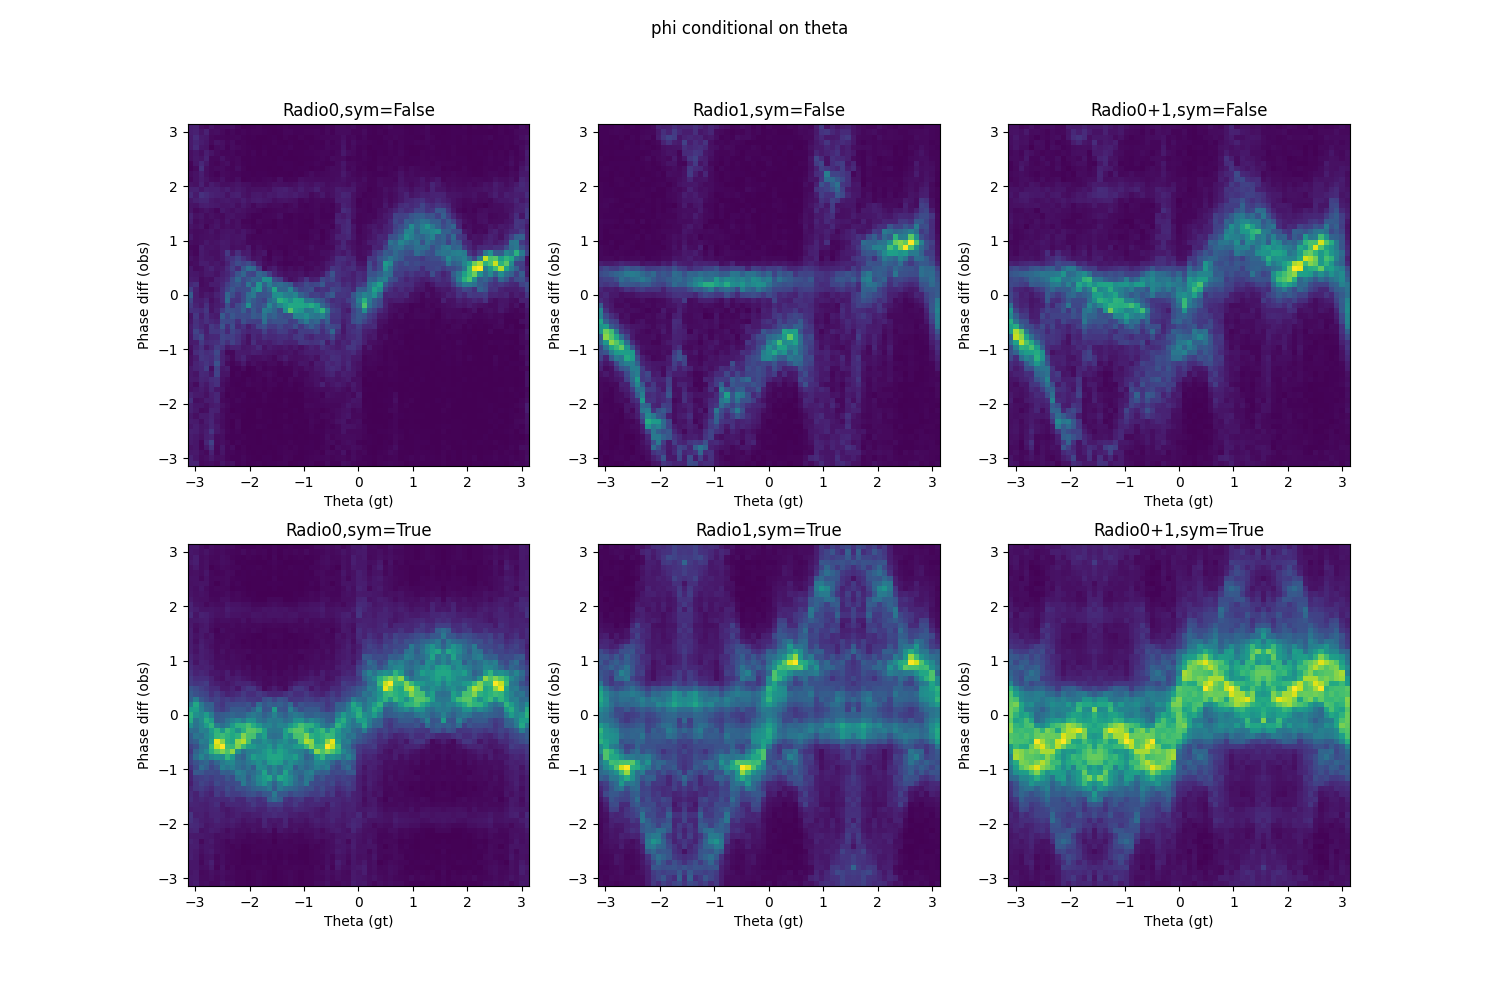
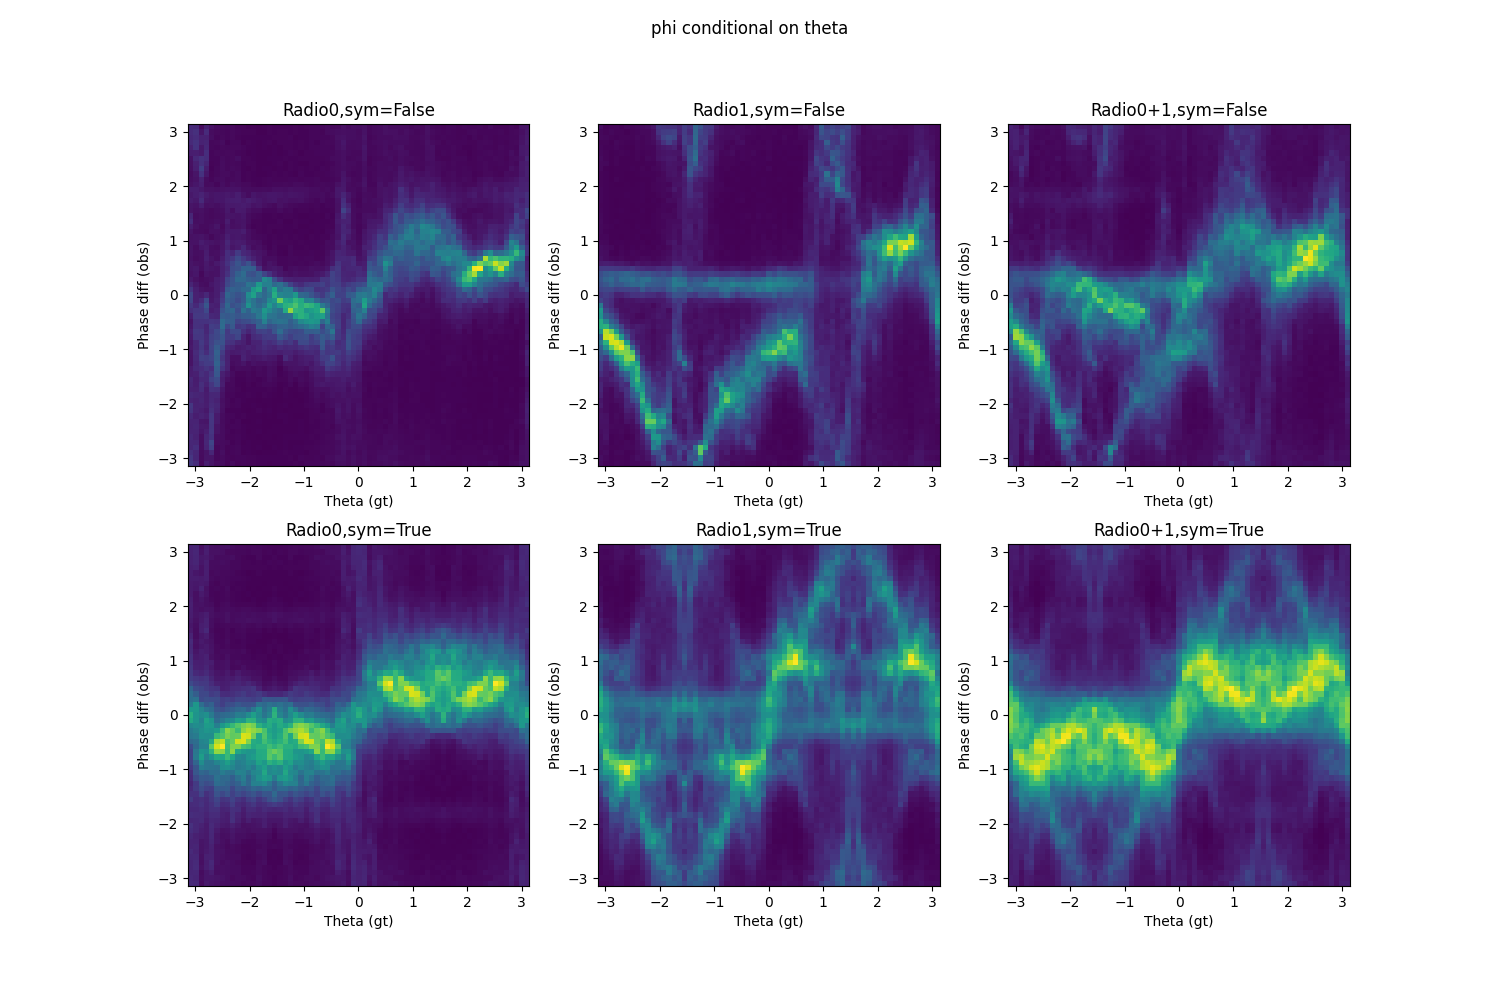
move up down symmetry to loss function; add new empirical dists

diff --git a/spf/scripts/train_single_point.py b/spf/scripts/train_single_point.py
@@ -207,20 +207,20 @@ def load_dataloaders(
             logging.error(f"Val: Failed to load {prefix} with error {str(e)}")
         return None
 
-    with Pool(16) as p:
-        logging.info("Preloading dataset")
-        preload_func = functools.partial(
-            preload_dataset,
-            nthetas=global_config["nthetas"],
-            precompute_cache=datasets_config["precompute_cache"],
-            segmentation_version=datasets_config["segmentation_version"],
-        )
+    # with Pool(max(16, len(train_paths))) as p:
+    #     logging.info("Preloading dataset")
+    #     preload_func = functools.partial(
+    #         preload_dataset,
+    #         nthetas=global_config["nthetas"],
+    #         precompute_cache=datasets_config["precompute_cache"],
+    #         segmentation_version=datasets_config["segmentation_version"],
+    #     )
 
-        list(monitor(p.imap(preload_func, val_paths), total=len(val_paths)))
-        list(
-            monitor(p.imap(preload_func, train_paths), total=len(train_paths)),
-        )
-        logging.info("Preloading dataset ... Done")
+    #     list(monitor(p.imap(preload_func, val_paths), total=len(val_paths)))
+    #     list(
+    #         monitor(p.imap(preload_func, train_paths), total=len(train_paths)),
+    #     )
+    #     logging.info("Preloading dataset ... Done")
 
     logging.info("Loading validation datasets...")
     val_datasets = list(
@@ -545,7 +545,9 @@ def uniform_preds(batch, target_ntheta):
     )
 
 
-def target_from_scatter(batch, y_rad, y_rad_binned, sigma, k, target_ntheta):
+def target_from_scatter(
+    batch, y_rad, y_rad_binned, sigma, k, target_ntheta, single=False
+):
     assert y_rad.max() <= torch.pi and y_rad.min() >= -torch.pi
     torch.zeros(
         *batch["empirical"].shape[:2], target_ntheta, device=batch["empirical"].device
@@ -564,11 +566,27 @@ def target_from_scatter(batch, y_rad, y_rad_binned, sigma, k, target_ntheta):
     diff = ((m - y_rad) / sigma) ** 2
     rescaled = torch.nn.functional.normalize((-diff / 2).exp(), p=1.0, dim=2)
 
-    batch, session, _ = rescaled.shape
-    return rescaled.reshape(batch, session, 3, n).sum(axis=2)
+    batch_size, session, _ = rescaled.shape
+    target = rescaled.reshape(batch_size, session, 3, n).sum(axis=2)
+
+    if single:
+        y_rad_flipped_up_down = y_rad.sign() * torch.pi - y_rad
+        target_flipped_up_down = target_from_scatter(
+            batch,
+            y_rad_flipped_up_down,
+            y_rad_binned,
+            sigma,
+            k,
+            target_ntheta,
+            single=False,
+        )
+        target = (target + target_flipped_up_down) / 2
+    return target
 
 
-def target_from_scatter_binned(batch, y_rad, y_rad_binned, sigma, k, target_ntheta):
+def target_from_scatter_binned(
+    batch, y_rad, y_rad_binned, sigma, k, target_ntheta, single=False
+):
     # if paired:
     #     y_rad_binned = batch["craft_y_rad_binned"][..., None]
     # else:
@@ -632,6 +650,7 @@ def new_log():
         "uniform_loss_paired": [],
         "uniform_loss_multipaired": [],
         "single_loss": [],
+        "single_loss_old": [],
         "single_plus_rand_loss": [],
         "single_craft_loss": [],
         "single_all_windows_phi_loss": [],
@@ -744,15 +763,6 @@ def compute_loss(
 
     if single and "single" in output:
 
-        target = scatter_fn(
-            batch_data,
-            y_rad=batch_data["y_rad"][..., None],
-            y_rad_binned=batch_data["y_rad_binned"][..., None],
-            sigma=datasets_config["sigma"],
-            k=datasets_config["scatter_k"],
-            target_ntheta=output["single"].shape[-1],
-        )
-
         with torch.no_grad():  # craft loss
             _target = scatter_fn(
                 batch_data,
@@ -761,6 +771,7 @@ def compute_loss(
                 sigma=datasets_config["sigma"],
                 k=datasets_config["scatter_k"],
                 target_ntheta=output["single"].shape[-1],
+                single=True,
             )
             _output = rotate_dist(
                 output["single"][:, 0],
@@ -771,7 +782,7 @@ def compute_loss(
             ).unsqueeze(1)
             loss_d["single_craft_loss"] = loss_fn(_output, _target)
 
-        with torch.no_grad():
+        with torch.no_grad():  # random rotate loss
             rand_rotation = torch_pi_norm(
                 torch.rand(batch_data["y_rad"].shape, device=batch_data["y_rad"].device)
                 * 2
@@ -786,6 +797,7 @@ def compute_loss(
                 sigma=datasets_config["sigma"],
                 k=datasets_config["scatter_k"],
                 target_ntheta=output["single"].shape[-1],
+                single=True,
             )
             _output = rotate_dist(
                 output["single"][:, 0],
@@ -793,6 +805,27 @@ def compute_loss(
             ).unsqueeze(1)
             loss_d["single_plus_rand_loss"] = loss_fn(_output, _target)
 
+        with torch.no_grad():  # old loss
+            _target = scatter_fn(
+                batch_data,
+                y_rad=batch_data["y_rad"][..., None],
+                y_rad_binned=batch_data["y_rad_binned"][..., None],
+                sigma=datasets_config["sigma"],
+                k=datasets_config["scatter_k"],
+                target_ntheta=output["single"].shape[-1],
+                single=False,
+            )
+            loss_d["single_loss_old"] = loss_fn(output["single"], _target)
+
+        target = scatter_fn(
+            batch_data,
+            y_rad=batch_data["y_rad"][..., None],
+            y_rad_binned=batch_data["y_rad_binned"][..., None],
+            sigma=datasets_config["sigma"],
+            k=datasets_config["scatter_k"],
+            target_ntheta=output["single"].shape[-1],
+            single=True,
+        )
         loss_d["single_loss"] = loss_fn(output["single"], target)
 
         # breakpoint()

diff --git a/spf/dataset/spf_dataset.py b/spf/dataset/spf_dataset.py
@@ -1026,7 +1026,7 @@ class v5spfdataset(Dataset):
         self.reinit()
 
         flip_left_right = self.flip and (torch.rand(1) > 0.5).item()
-        flip_up_down = self.flip and (torch.rand(1) > 0.5).item()
+        # flip_up_down = self.flip and (torch.rand(1) > 0.5).item() # MOVED TO LOSS FUNCTION
 
         snapshot_idxs = self.get_session_idxs(session_idx)
 
@@ -1052,7 +1052,7 @@ class v5spfdataset(Dataset):
         if flip_left_right or double_flip:
             data["ground_truth_phi"] = -data["ground_truth_phi"]
             data["ground_truth_theta"] = -data["ground_truth_theta"]
-        if flip_up_down or double_flip:
+        if double_flip:
             # compute the flipped gt theta
             data["ground_truth_theta"] = (
                 data["ground_truth_theta"].sign() * torch.pi
